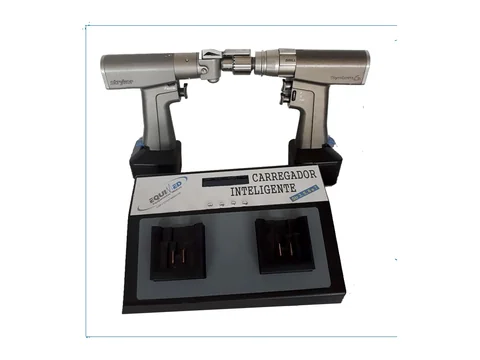
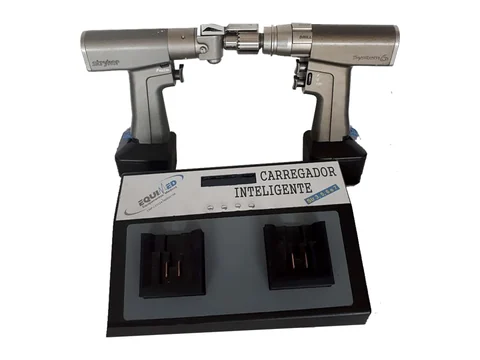
Imagery: licensed Commons photos in hero and page headers, framed product photos, image credits
- 7 CC/PD photos from Wikimedia Commons (ConMed PowerPro drill, Karl Storz OR towers, arthroscopy,
  laparoscopy, operating theatre, Storz optic) as 1600/960/480 WebP, credits in content/credits.json
  and rendered on /privacidade/#creditos (footer link)
- Hero bento now uses cover photos with gradient captions and a 'desde 2014' chip
- Service and family pages get a framed header photo
- Product cards and product page: framed plate with spotlight, inner border, drop shadow, caption
- Tighter crop on the paired-drill photo to remove the residual frame line

Changed region(s): [[0.1562, 0.0611, 0.8438, 0.9472], [0.4062, 0.6722, 0.4375, 0.7028]]

diff --git a/src/styles/main.css b/src/styles/main.css
@@ -134,6 +134,10 @@
   .page-header { padding-block: clamp(2rem, 5vw, 3.5rem) var(--space-2); max-width: var(--container); }
   .page-header .lead { margin-block-start: var(--space-4); }
   .page-header .button { margin-block-start: var(--space-5); }
+  .page-header--media { display: grid; grid-template-columns: minmax(0, 1fr); gap: var(--space-8); align-items: center; padding-block-end: var(--space-6); }
+  @media (width >= 64rem) { .page-header--media { grid-template-columns: minmax(0, 1.2fr) minmax(0, 0.8fr); gap: var(--space-12); } }
+  .page-header__media { aspect-ratio: 16 / 9; }
+  .page-header__media img { width: 100%; height: 100%; object-fit: cover; }
   .lead { font-size: var(--step-1); color: var(--text-muted); max-width: var(--measure); line-height: 1.5; }
   .eyebrow { font-family: var(--font-display); font-size: var(--step--1); font-weight: 700; letter-spacing: 0.08em; text-transform: uppercase; color: var(--link); margin-block-end: var(--space-3); }
   .eyebrow a { text-decoration: none; }
@@ -243,19 +247,24 @@
   .hero__phones a { color: var(--text); text-decoration: none; }
   .hero__phones a:hover { color: var(--link); }
 
+  /* Photo frame: thin border, inner highlight, soft shadow */
+  .frame { position: relative; overflow: hidden; border-radius: var(--radius-lg); border: 1px solid var(--line); box-shadow: var(--shadow); background: var(--plate); }
+  .frame::after { content: ""; position: absolute; inset: 0; border-radius: inherit; box-shadow: inset 0 0 0 1px oklch(100% 0 0 / 0.5), inset 0 -40px 60px -40px oklch(0% 0 0 / 0.18); pointer-events: none; }
+  .frame img { display: block; }
+  .frame figcaption { position: absolute; inset-inline: 0; inset-block-end: 0; padding: var(--space-2) var(--space-4); font-size: 0.8rem; color: var(--text-muted); background: color-mix(in oklch, var(--surface) 88%, transparent); backdrop-filter: blur(6px); border-block-start: 1px solid var(--line); }
+
   /* Bento media */
   .bento { display: grid; gap: var(--space-3); grid-template-columns: repeat(2, minmax(0, 1fr)); grid-template-rows: auto auto; }
-  .bento__tile { position: relative; display: grid; place-items: center; background: var(--plate); border: 1px solid var(--line); border-radius: var(--radius-lg); padding: var(--space-4); min-height: 9rem; overflow: hidden; box-shadow: var(--shadow-sm); text-decoration: none; }
+  .bento__tile { position: relative; display: block; min-height: 9rem; text-decoration: none; color: inherit; }
   .bento__tile--big { grid-column: 1 / -1; min-height: 14rem; }
-  .bento__tile img { width: 100%; max-height: 16rem; object-fit: contain; mix-blend-mode: multiply; }
-  .bento__tile--big img { max-height: 20rem; }
-  .bento__label { position: absolute; inset-block-end: var(--space-3); inset-inline-start: var(--space-3); font-family: var(--font-display); font-size: var(--step--1); font-weight: 700; color: var(--brand-800); background: color-mix(in oklch, white 85%, transparent); backdrop-filter: blur(6px); padding: 0.3em 0.7em; border-radius: 999px; }
-  .bento__tile--stat { background: var(--brand-700); color: white; border: 0; text-align: center; padding: var(--space-5); }
-  .bento__tile--stat strong { display: block; font-family: var(--font-display); font-size: var(--step-1); font-weight: 800; letter-spacing: -0.02em; line-height: 1.1; }
-  .bento__tile--stat span { font-size: 0.8rem; color: var(--brand-200); line-height: 1.35; margin-block-start: 0.25rem; }
-  @media (width < 40rem) { .bento__tile--stat { grid-column: 1 / -1; } }
-  @media (width >= 40rem) { .bento { grid-template-columns: repeat(3, minmax(0, 1fr)); } .bento__tile--big { grid-column: 1 / 3; grid-row: 1 / 3; } }
-  @media (prefers-reduced-motion: no-preference) { .bento__tile { transition: transform 0.3s var(--ease); } .bento__tile:hover { transform: translateY(-3px); } }
+  .bento__tile img { width: 100%; height: 100%; object-fit: cover; position: absolute; inset: 0; transition: transform 0.6s var(--ease); }
+  .bento__tile:hover img { transform: scale(1.04); }
+  .bento__label { position: absolute; inset-inline: 0; inset-block-end: 0; z-index: 1; padding: var(--space-6) var(--space-4) var(--space-3); font-family: var(--font-display); font-size: var(--step--1); font-weight: 700; color: white; background: linear-gradient(180deg, transparent, oklch(15% 0.03 240 / 0.85)); text-shadow: 0 1px 2px oklch(0% 0 0 / 0.4); }
+  .bento__tile--big .bento__label { font-size: var(--step-0); }
+  .bento__chip { position: absolute; inset-block-start: var(--space-3); inset-inline-start: var(--space-3); z-index: 1; font-family: var(--font-display); font-weight: 700; font-size: 0.8rem; color: var(--brand-800); background: color-mix(in oklch, white 90%, transparent); backdrop-filter: blur(6px); padding: 0.35em 0.8em; border-radius: 999px; }
+  @media (width < 40rem) { .bento__tile { min-height: 11rem; } .bento__tile--big { min-height: 16rem; } }
+  @media (width >= 40rem) { .bento { grid-template-columns: repeat(3, minmax(0, 1fr)); grid-template-rows: 11rem 11rem; } .bento__tile--big { grid-column: 1 / 3; grid-row: 1 / 3; } }
+  @media (width >= 64rem) { .bento { grid-template-rows: 12.5rem 12.5rem; } }
 
   /* Proof strip */
   .proof { border-block: 1px solid var(--line); background: var(--surface); }
@@ -268,7 +277,10 @@
   .card { container-type: inline-size; background: var(--surface); border: 1px solid var(--line); border-radius: var(--radius-lg); overflow: hidden; transition: transform 0.2s var(--ease), box-shadow 0.2s var(--ease), border-color 0.2s var(--ease); }
   .card:has(.card__link:hover) { transform: translateY(-3px); box-shadow: var(--shadow); border-color: var(--brand-200); }
   .card__link { display: flex; flex-direction: column; height: 100%; text-decoration: none; color: inherit; }
-  .card__media { aspect-ratio: 4 / 3; background: var(--plate); display: grid; place-items: center; padding: var(--space-5); border-block-end: 1px solid var(--line); }
+  .card__media { position: relative; aspect-ratio: 4 / 3; background: radial-gradient(80% 70% at 50% 45%, white, var(--plate)); display: grid; place-items: center; padding: var(--space-6); border-block-end: 1px solid var(--line); }
+  .card__media::after { content: ""; position: absolute; inset: var(--space-3); border: 1px solid color-mix(in oklch, var(--line) 70%, transparent); border-radius: var(--radius); pointer-events: none; }
+  .card__media img { filter: drop-shadow(0 10px 14px oklch(0% 0 0 / 0.14)); transition: transform 0.3s var(--ease); }
+  .card:has(.card__link:hover) .card__media img { transform: scale(1.03); }
   .card__media img { width: 100%; height: 100%; object-fit: contain; mix-blend-mode: multiply; }
   .card__media--icon { color: var(--brand-500); gap: var(--space-2); grid-auto-rows: max-content; align-content: center; }
   .card__media--icon span { font-size: var(--step--1); color: oklch(43% 0.025 240); }
@@ -359,8 +371,9 @@
   /* Product */
   .product { display: grid; grid-template-columns: minmax(0, 1fr); gap: var(--space-8); padding-block: var(--space-6) var(--space-12); align-items: start; }
   @media (width >= 64rem) { .product { grid-template-columns: minmax(0, 0.9fr) minmax(0, 1.1fr); gap: var(--space-12); } }
-  .product__media { background: var(--plate); border: 1px solid var(--line); border-radius: var(--radius-lg); padding: var(--space-6); position: sticky; inset-block-start: 5.5rem; display: grid; place-items: center; min-height: 18rem; }
-  .product__media img { width: 100%; object-fit: contain; mix-blend-mode: multiply; }
+  .product__media { background: radial-gradient(80% 70% at 50% 45%, white, var(--plate)); border: 1px solid var(--line); border-radius: var(--radius-lg); padding: var(--space-8) var(--space-8) var(--space-10); position: sticky; inset-block-start: 5.5rem; display: grid; place-items: center; min-height: 18rem; }
+  .product__media img { width: 100%; object-fit: contain; mix-blend-mode: multiply; filter: drop-shadow(0 16px 20px oklch(0% 0 0 / 0.16)); }
+  .product__media.frame::after { display: none; }
   .product__media--icon { color: var(--brand-500); gap: var(--space-3); grid-auto-rows: max-content; align-content: center; }
   .product__media--icon figcaption { color: oklch(43% 0.025 240); font-size: var(--step--1); }
   .product__model { font-size: var(--step-1); color: var(--text-muted); margin-block: var(--space-2) var(--space-3); }

diff --git a/docs/PROPOSTA.md b/docs/PROPOSTA.md
@@ -59,7 +59,7 @@ e `/marcas/stryker/`; "assistência em equipamentos ConMed/Linvatec" leva a `/ma
 1. **Modelos citados** por família e marca (`content/families.json`): a lista foi montada por pesquisa e precisa
    da revisão técnica de vocês. Em especial: ConMed/Linvatec (PowerPro, MPower 2, Advantage, LS7700/LS8000,
    IM4000/IM8000), Storz (IMAGE1 S, Power LED, Endoflator 50) e Stryker (1688, L10, Pneumosure, Core 2).
-2. **Fotos reais** das 7 linhas sem foto (System 7, System 8, baterias 7/8, Hall PowerPro/MPower, Linvatec
+2. **Fotos reais**: as fotos de ambiente (hero, cabeçalhos de serviço e família) são do Wikimedia Commons, com licença livre e crédito em `/privacidade/#creditos`; fotos próprias da bancada e da equipe devem substituí-las. Também faltam fotos das 7 linhas sem foto (System 7, System 8, baterias 7/8, Hall PowerPro/MPower, Linvatec
    Advantage, IMAGE1 S, Stryker Core) e, se possível, fotos novas dos seminovos em fundo branco.
 3. **Serviços de software**: confirmar o texto de desbloqueio (o site diz que não remove bloqueios com função de
    segurança e atende só equipamento do próprio cliente).
